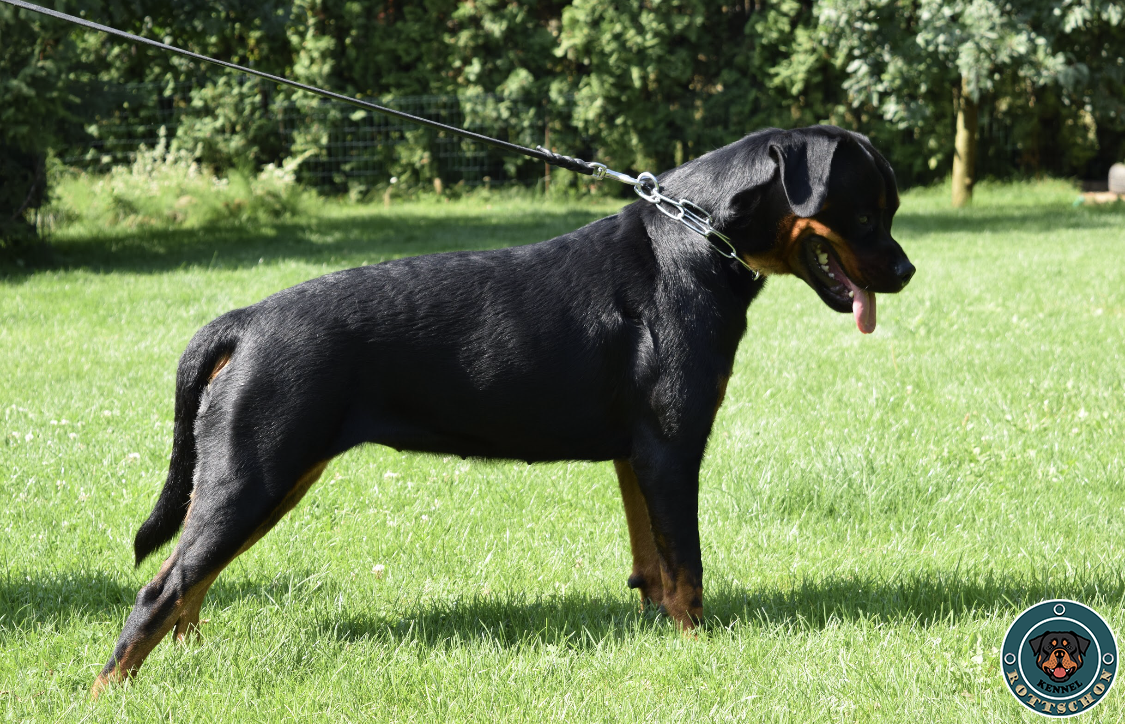
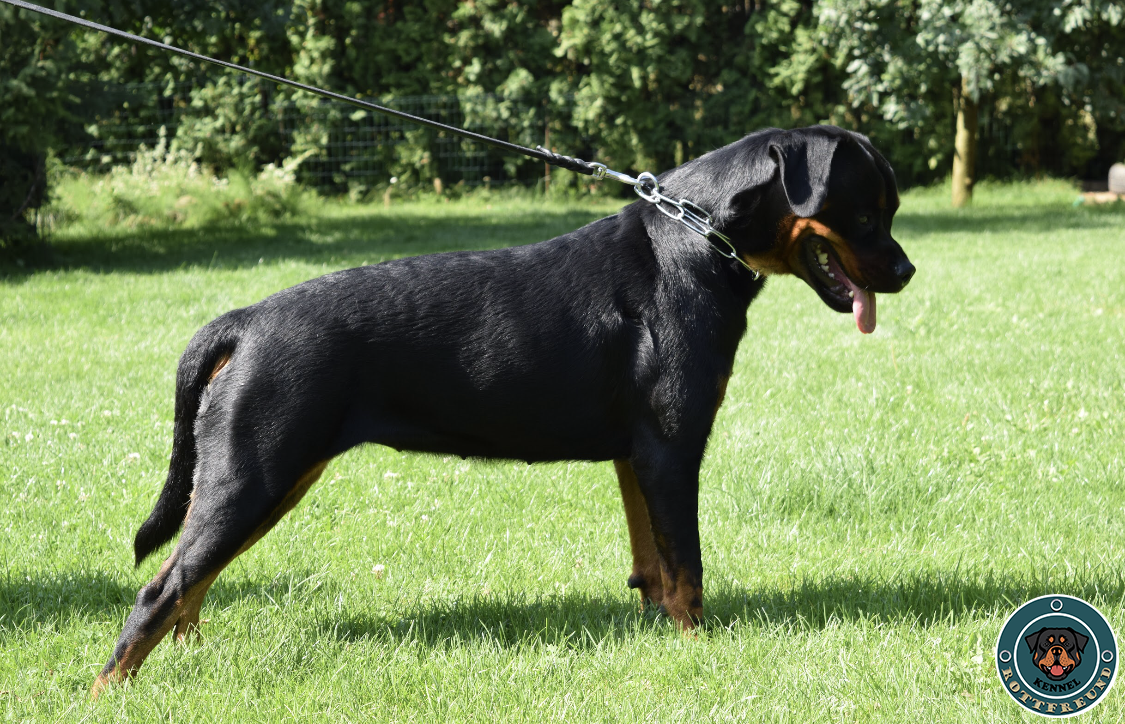
puppis

Changed region(s): [[0.8711, 0.8204, 0.9956, 1.0]]

diff --git a/src/Components/Puppies/puppies.js b/src/Components/Puppies/puppies.js
@@ -1,53 +1,19 @@
-import React, { useState } from 'react'
+import React from 'react'
 import "./puppies.css"
-import { FaAngleRight } from 'react-icons/fa'
+
 
 function Puppies({ puppiesData }) {
-    const [Ace, setAce] = useState(false)
-    const showAce = () => setAce(!Ace)
-    const [Atena, setAtena] = useState(false)
-    const showAtena = () => setAtena(!Atena)
-    const [Aslan, setAslan] = useState(false)
-    const showAslan = () => setAslan(!Aslan)
+   
     return (
-        <div>
+        <div className='cards-puppy'>
             {puppiesData.map((puppy, index) => {
                 return (
-                    <div className='cards-puppy' key={index}>
-                        <div className='puppy-container'>
-                            <h1>{puppy.Ace.name}</h1>
+                        <div className='puppy-container'  key={index}>
+                            <h1>{puppy.name}</h1>
                             <div className='puppy-image-container'>
-                                <img src={puppy.Ace.front} alt='front-puppy' className='puppy-image' />
-                                <img src={puppy.Ace.side} alt='side-puppy' className='puppy-image' />
+                                <img src={puppy.front} alt='front-puppy' className='puppy-image' />
                             </div>
-                            <FaAngleRight className={Ace ? 'arrow arrow-details-down' : 'arrow arrow-details'} onClick={showAce} />
-                            <div className={Ace ? 'Ace-active' : 'Ace'}>
-                                <img src={puppy.Ace.pedigree} alt="pedigree"></img>
                             </div>
-                        </div>
-                        <div className='puppy-container'>
-                            <h1>{puppy.Atena.name}</h1>
-                            <div className='puppy-image-container'>
-                                <img src={puppy.Atena.front} alt='front-puppy' className='puppy-image' />
-                                <img src={puppy.Atena.side} alt='side-puppy' className='puppy-image' />
-                            </div>
-                            <FaAngleRight className={Atena ? 'arrow arrow-details-down' : 'arrow arrow-details'} onClick={showAtena} />
-                            <div className={Atena ? 'Atena-active' : 'Atena'}>
-                                <img src={puppy.Atena.pedigree} alt="pedigree"></img>
-                            </div>
-                        </div>
-                        <div className='puppy-container'>
-                            <h1>{puppy.Aslan.name}</h1>
-                            <div className='puppy-image-container'>
-                                <img src={puppy.Aslan.front} alt='front-puppy' className='puppy-image' />
-                                <img src={puppy.Aslan.side} alt='side-puppy' className='puppy-image' />
-                            </div>
-                            <FaAngleRight className={Aslan ? 'arrow arrow-details-down' : 'arrow arrow-details'} onClick={showAslan} />
-                            <div className={Aslan ? 'Aslan-active' : 'Aslan'}>
-                                <img src={puppy.Aslan.pedigree} alt="pedigree"></img>
-                            </div>
-                        </div>
-                    </div>
                     
                 )
             })}

diff --git a/src/Components/TextData/homeData.js b/src/Components/TextData/homeData.js
@@ -2,7 +2,7 @@
 const homeData = [
     {
         title: "Strong, intelligent and protective German dog.",
-        CardOne: " We chose to set up a kennel because we are completely dedicated to dogs.Many times in our life the dog has shown us loyalty and friendship and so we have created a passion and love for them. with the necessary training and time we will be able to perfect both the quality, the appearance, the socialization, the behavior. We dedicate a big part of our activities for these dogs. We want to supply the market with quality dogs and we offer seriousness and respect in everything connected with this wonderful breed.",
+        CardOne: " We chose to set up a kennel because we are completely dedicated to dogs.Many times in our life the dog has shown us loyalty and friendship and so we have created a passion and love for them. With the necessary training and time we will be able to perfect both the quality, the appearance, the socialization, the behavior. We dedicate a big part of our activities for these dogs. We want to supply the market with quality dogs and we offer seriousness and respect in everything connected with this wonderful breed.",
         CardTwo: "Rottweilers are some of the smartest canines around, and they're commonly used as working and service dogs because of their high levels of intelligence and trainability.They are loyal pets and great companions. With the right training and socialization, a Rottweiler makes a very good family pet. The Rottweiler has a very strong bond with his family.A well-bred Rottweiler is calm, confident, and courageous.We breed dogs with excellent temperament and no health problems."
     }
 ]

diff --git a/src/Components/TextData/puppiesData.js b/src/Components/TextData/puppiesData.js
@@ -1,26 +1,48 @@
-import aceFront from "../../images/1.jpg"
-import aceSide from "../../images/2.jpg"
-import pedigree from "../../images/pedigree.jpg"
+import apolo from "../../images/apolo.png"
+import atena from "../../images/atena.png"
+import aslan from "../../images/aslan.png"
+import angel from "../../images/angel.png"
+import alaska from "../../images/alaska.png"
+import amos from "../../images/amos.png"
+import ash from "../../images/ash.png"
+
 
 
 export const puppy = [
+        
         {
-            Ace:{
-            name:"Rottschon Ace",
-            front: aceFront,
-            side: aceSide,
-            pedigree: pedigree
-        },Atena:
+        name:"Rottfreund Ash",
+        front: ash,
+        
+        },
         {
-            name:"Rottschon Atena",
-            front: aceFront,
-            side: aceSide,
-            pedigree: pedigree
-        },Aslan:
+            name:"Rottfreund Alaska",
+            front: alaska,
+            
+        },
         {
-            name:"Rottschon Aslan",
-            front: aceFront,
-            side: aceSide,
-            pedigree: pedigree
-        }}
+            name:"Rottfreund Apolo",
+            front: apolo,
+            
+        },
+        {
+            name:"Rottfreund Aslan",
+            front: aslan,
+            
+        },
+        {
+            name:"Rottfreund Angel",
+            front: angel,
+            
+        },
+        {
+            name:"Rottfreund Amos",
+            front: amos,
+            
+        },
+        {
+            name:"Rottfreund Atena",
+            front: atena,
+            
+        }
     ]

diff --git a/src/Components/Puppies/puppies.css b/src/Components/Puppies/puppies.css
@@ -2,9 +2,18 @@
 {
     box-sizing: border-box;
 }
+.cards-puppy
+{
+    display: flex;
+    justify-content: space-evenly;
+    align-items: center;
+    align-content: center;
+    flex-direction: row;
+    flex-wrap: wrap;
+}
 .puppy-container
 {
-    width: 80vw;
+    width: 45%;
     margin-top: 5%;
     display: flex;
     justify-content: center;
@@ -34,58 +43,29 @@
     align-items: center;
     align-content: center;
     border-radius: 25px;
-    width: 45%;
+    width: 90%;
     height: auto;
 }
 .puppy-image-container
 {
     width: 100%;
+    height: 50vh;
     display: flex;
     justify-content: space-evenly;
 }
-.Ace,
-.Atena,
-.Aslan
+.puppy
 {
     height: 0px;
     transition: 850ms;
 
 }
-.Ace > img,
-.Atena > img,
-.Aslan > img
-{
-    height: 0px;
-    width: 0px;
-}
-.Ace-active,
-.Atena-active,
-.Aslan-active
-{
-    display: flex;
-    justify-content: center;
-    align-content: center;
-    width: 100%;
-    height: 60vh;
-    transition: 850ms; 
-    width: 80vw;
 
-}
-.Ace-active > img,
-.Atena-active> img,
-.Aslan-active > img
-{
-    width: 70vw;
-    height: 100%;
-    border-radius: 25px;
-    transition: 850ms;
-}
-
-@media only screen and (max-width:1200px)
+@media only screen and (max-width:800px)
 {
     .puppy-image-container
 {
     flex-direction: column;
+    height: auto;
 }
 .puppy-image
 {
@@ -99,18 +79,6 @@
 .puppy-container
 {
     width: 90vw;
-}
-.Ace-active,
-.Atena-active,
-.Aslan-active
-{
-    height: 40vh;
-}
-.Ace-active > img,
-.Atena-active> img,
-.Aslan-active > img
-{
-    width: 100%;
 }
 .puppy-image
 {

diff --git a/src/Components/Footer/footer.js b/src/Components/Footer/footer.js
@@ -11,7 +11,7 @@ export default function Footer() {
             <div className='footer-three-divs'>
                          <div className='footer-contact'>
                                             <h1>
-                                                Rottschon Kennel from Romania sell Rottweiler puppies with all documents.
+                                                Rottfreund Kennel from Romania sell Rottweiler puppies with all documents.
                                             </h1>
                                             <h2>Contact us here:</h2>
                                             <p>

diff --git a/src/Components/Header/header.js b/src/Components/Header/header.js
@@ -6,7 +6,7 @@ import logo from "../../images/logotara.png"
       return(
         <div className="header">
             <span><img src={logo} alt='logo'className='logo-image'/></span>
-            <h1 className='kennel'>ROTTSCHON KENNEL</h1>
+            <h1 className='kennel'>ROTTFREUND KENNEL</h1>
             <span><img src={logo} alt='logo' className='logo-image'/></span>
           </div>
       )
